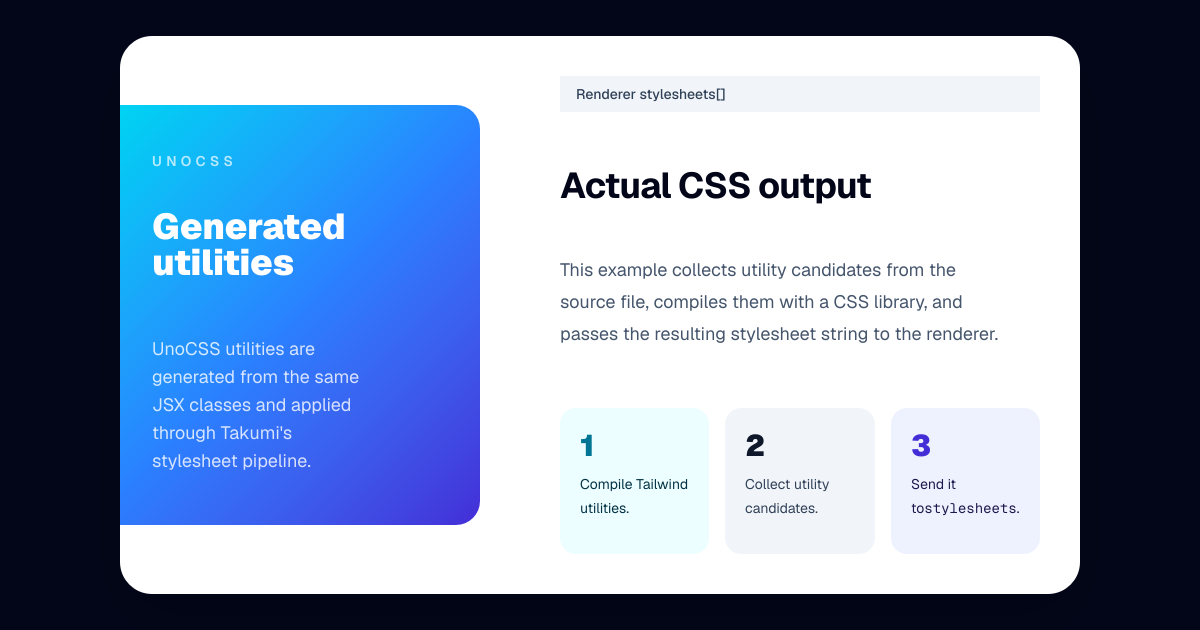
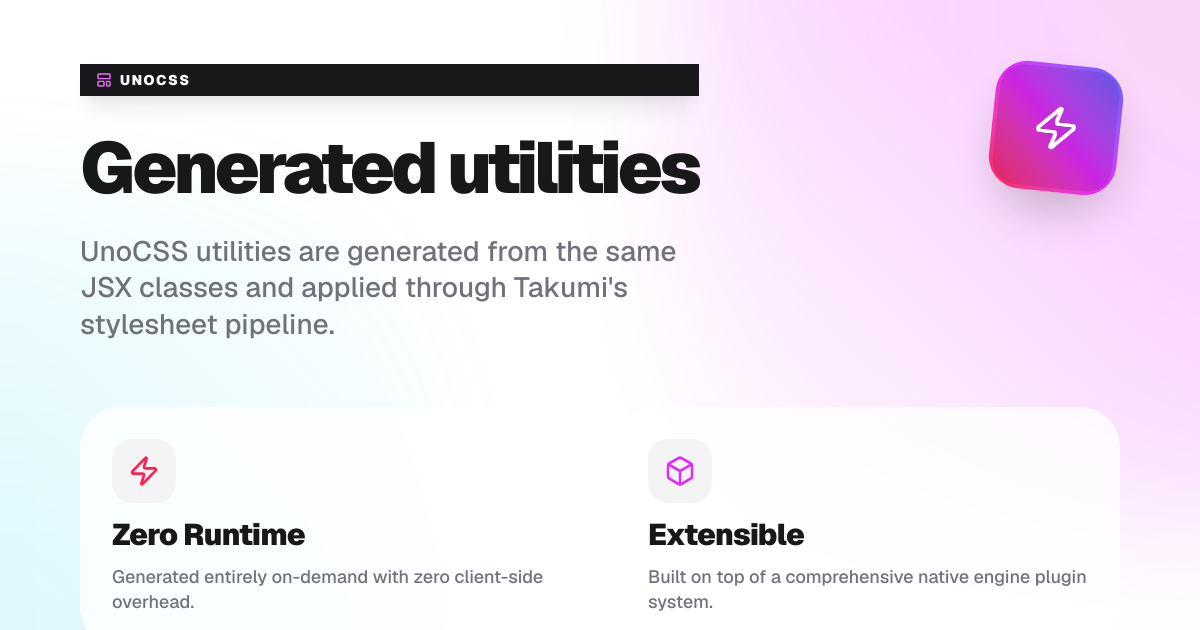
Example: update card component

diff --git a/example/css-library-integration/src/card.tsx b/example/css-library-integration/src/card.tsx
@@ -1,68 +1,142 @@
-type CssLibraryCardProps = {
+import { Box, Code, Layers, LayoutTemplate, Play, Zap } from "lucide-react";
+
+export type CssLibraryCardProps = {
   libraryName: string;
   title: string;
   description: string;
 };
 
-export function CssLibraryCard({
+export function TailwindCard({
   libraryName,
   title,
   description,
 }: CssLibraryCardProps) {
   return (
-    <div className="flex h-full w-full items-center justify-center bg-slate-950 p-16">
-      <div className="flex w-[960px] items-center gap-10 overflow-hidden rounded-[32px] border border-white/10 bg-white shadow-2xl">
-        <div className="flex h-[420px] w-[360px] flex-col justify-between rounded-r-3xl bg-linear-to-br from-cyan-400 via-blue-500 to-indigo-700 p-8 text-white">
-          <div className="flex flex-col space-y-4">
-            <p className="text-sm font-semibold uppercase tracking-[0.3em] text-white/70">
+    <div className="h-[630px] w-[1200px] bg-[#09090b] font-sans flex-row overflow-hidden border border-[#27272a]">
+      {/* Left Pane - Content & Typo */}
+      <div className="w-[640px] h-full flex-col p-20 justify-between bg-linear-to-b from-[#09090b] to-[#18181b] relative z-10">
+        <div className="flex-col">
+          <div className="items-center px-4 py-2 w-max shrink-0 rounded-full bg-blue-500/10 border border-blue-500/20">
+            <Layers className="w-4 h-4 shrink-0 text-blue-400 mr-2" />
+            <span className="text-sm font-bold text-blue-400 tracking-widest uppercase">
               {libraryName}
-            </p>
-            <h1 className="max-w-[240px] text-4xl font-black leading-none">
-              {title}
-            </h1>
+            </span>
           </div>
 
-          <p className="max-w-56 text-lg text-white/80">{description}</p>
+          <h1 className="m-0 mt-12 text-[64px] font-black text-white tracking-tighter leading-[1.05]">
+            {title}
+          </h1>
+          <p className="m-0 mt-8 text-2xl text-[#a1a1aa] font-medium leading-relaxed">
+            {description}
+          </p>
         </div>
 
-        <div className="flex min-w-0 flex-1 flex-col gap-6 p-10">
-          <div className="inline-flex w-fit items-center rounded-full bg-slate-100 px-4 py-2 text-sm font-medium text-slate-700">
-            Renderer stylesheets[]
-          </div>
+        <div className="items-center bg-blue-600 w-max shrink-0 px-8 py-5 rounded-2xl shadow-[0_0_40px_-10px_rgba(37,99,235,0.5)]">
+          <span className="text-xl font-bold text-white tracking-wide">
+            INITIALIZE PIPELINE
+          </span>
+          <Play className="w-5 h-5 shrink-0 text-white ml-3 fill-white" />
+        </div>
+      </div>
 
-          <div className="flex flex-col space-y-4 text-slate-950">
-            <h2 className="text-4xl font-bold tracking-tight">
-              Actual CSS output
-            </h2>
-            <p className="max-w-md text-lg leading-8 text-slate-600 whitespace-pre-wrap">
-              This example collects utility candidates from the source file,
-              compiles them with a CSS library, and passes the resulting
-              stylesheet string to the renderer.
-            </p>
-          </div>
-
-          <div className="grid grid-cols-3 gap-4 pt-4">
-            <div className="flex flex-col rounded-2xl bg-cyan-50 p-5">
-              <div className="text-3xl font-black text-cyan-700">1</div>
-              <p className="mt-2 text-sm leading-6 text-cyan-950">
-                Compile Tailwind utilities.
-              </p>
+      {/* Right Pane - Feature Grid */}
+      <div className="flex-1 h-full bg-[#18181b] flex-col p-16 justify-center border-l border-[#27272a] shadow-[-20px_0_60px_-15px_rgba(0,0,0,0.5)]">
+        <div className="flex-col gap-8">
+          <div className="bg-[#09090b] p-8 rounded-3xl border border-[#27272a] items-start hover:border-blue-500/50 transition-colors">
+            <div className="h-16 w-16 shrink-0 items-center justify-center rounded-2xl bg-[#18181b] border border-[#27272a] text-blue-500">
+              <Code className="w-8 h-8 shrink-0" />
             </div>
-
-            <div className="flex flex-col rounded-2xl bg-slate-100 p-5">
-              <div className="text-3xl font-black text-slate-900">2</div>
-              <p className="mt-2 text-sm leading-6 text-slate-700">
-                Collect utility candidates.
-              </p>
-            </div>
-
-            <div className="flex flex-col rounded-2xl bg-indigo-50 p-5">
-              <div className="text-3xl font-black text-indigo-700">3</div>
-              <p className="mt-2 text-sm leading-6 text-indigo-950">
-                Send it to <code>stylesheets</code>.
+            <div className="flex-col ml-8 justify-center">
+              <h3 className="m-0 text-2xl font-black text-[#f4f4f5]">
+                Static Resolution
+              </h3>
+              <p className="m-0 mt-2 text-lg text-[#71717a] font-medium leading-normal">
+                Optimized AST-based scanning of JSX source files for utility
+                tokens.
               </p>
             </div>
           </div>
+
+          <div className="bg-[#09090b] p-8 rounded-3xl border border-[#27272a] items-start hover:border-blue-500/50 transition-colors">
+            <div className="h-16 w-16 shrink-0 items-center justify-center rounded-2xl bg-[#18181b] border border-[#27272a] text-blue-500">
+              <Zap className="w-8 h-8 shrink-0" />
+            </div>
+            <div className="flex-col ml-8 justify-center">
+              <h3 className="m-0 text-2xl font-black text-[#f4f4f5]">
+                Engine Build
+              </h3>
+              <p className="m-0 mt-2 text-lg text-[#71717a] font-medium leading-normal">
+                Tailwind v4 JIT compilation into highly optimized raw CSS
+                stylesheets.
+              </p>
+            </div>
+          </div>
+        </div>
+      </div>
+    </div>
+  );
+}
+
+export function UnoCard({
+  libraryName,
+  title,
+  description,
+}: CssLibraryCardProps) {
+  return (
+    <div className="h-[630px] w-[1200px] bg-white font-sans flex-col overflow-hidden relative border border-zinc-200">
+      {/* Massive Background Gradients */}
+      <div className="absolute top-0 right-0 w-[800px] h-[800px] bg-linear-to-bl from-rose-500/20 via-fuchsia-500/20 to-transparent blur-3xl rounded-full translate-x-1/3 -translate-y-1/3" />
+      <div className="absolute bottom-0 left-0 w-[600px] h-[600px] bg-linear-to-tr from-cyan-400/20 to-transparent blur-3xl rounded-full -translate-x-1/4 translate-y-1/4" />
+
+      {/* Top Section */}
+      <div className="w-full flex-row px-20 py-16 justify-between items-start relative z-10 shrink-0">
+        <div className="flex-col max-w-[640px]">
+          <div className="items-center px-4 py-1.5 w-max shrink-0 rounded-full bg-zinc-900 shadow-xl border border-zinc-800">
+            <LayoutTemplate className="w-4 h-4 shrink-0 text-fuchsia-400 mr-2" />
+            <span className="text-sm font-black text-white tracking-widest uppercase">
+              {libraryName}
+            </span>
+          </div>
+
+          <h1 className="m-0 mt-10 text-[72px] font-black text-zinc-900 tracking-tighter leading-[0.9]">
+            {title}
+          </h1>
+          <p className="m-0 mt-8 text-[28px] text-zinc-500 font-medium leading-[1.3] max-w-[600px]">
+            {description}
+          </p>
+        </div>
+
+        <div className="w-32 h-32 shrink-0 bg-linear-to-tr from-rose-500 via-fuchsia-500 to-indigo-500 rounded-[32px] shadow-2xl rotate-6 flex-col items-center justify-center p-1 border-4 border-white">
+          <div className="w-full h-full shrink-0 bg-black/10 rounded-[24px] justify-center items-center">
+            <Zap className="w-12 h-12 shrink-0 text-white fill-white" />
+          </div>
+        </div>
+      </div>
+
+      {/* Bottom Section - Metric Cards */}
+      <div className="w-full flex-row gap-8 px-20 pb-16 mt-auto relative z-10 flex-1 items-end">
+        <div className="flex-1 bg-white/80 p-8 rounded-[40px] border border-white shadow-[0_30px_60px_-15px_rgba(0,0,0,0.05)] flex-col justify-end h-[240px]">
+          <div className="h-16 w-16 shrink-0 bg-zinc-100 rounded-[20px] items-center justify-center mb-auto border border-zinc-200">
+            <Zap className="w-8 h-8 shrink-0 text-rose-500" />
+          </div>
+          <h3 className="m-0 text-3xl font-black text-zinc-900 tracking-tight">
+            Zero Runtime
+          </h3>
+          <p className="m-0 mt-3 text-lg text-zinc-500 font-medium leading-snug">
+            Generated entirely on-demand with zero client-side overhead.
+          </p>
+        </div>
+
+        <div className="flex-1 bg-white/80 p-8 rounded-[40px] border border-white shadow-[0_30px_60px_-15px_rgba(0,0,0,0.05)] flex-col justify-end h-[240px]">
+          <div className="h-16 w-16 shrink-0 bg-zinc-100 rounded-[20px] items-center justify-center mb-auto border border-zinc-200">
+            <Box className="w-8 h-8 shrink-0 text-fuchsia-500" />
+          </div>
+          <h3 className="m-0 text-3xl font-black text-zinc-900 tracking-tight">
+            Extensible
+          </h3>
+          <p className="m-0 mt-3 text-lg text-zinc-500 font-medium leading-snug">
+            Built on top of a comprehensive native engine plugin system.
+          </p>
         </div>
       </div>
     </div>

diff --git a/example/css-library-integration/src/index.tsx b/example/css-library-integration/src/index.tsx
@@ -4,7 +4,7 @@ import { fileURLToPath } from "node:url";
 import { Renderer } from "@takumi-rs/core";
 import { fromJsx } from "@takumi-rs/helpers/jsx";
 import { write } from "bun";
-import { CssLibraryCard } from "./card";
+import { TailwindCard, UnoCard } from "./card";
 import { compileTailwindStylesheet } from "./tailwind-compile";
 import { compileUnoStylesheet } from "./unocss-compile";
 
@@ -13,8 +13,8 @@ const height = 630;
 
 const currentFile = fileURLToPath(import.meta.url);
 const currentDir = dirname(currentFile);
-const exampleDir = dirname(currentDir);
-const outputDir = join(exampleDir, "output");
+const exampleDir = dirname(currentFile);
+const outputDir = join(exampleDir, "..", "output");
 const renderer = new Renderer();
 
 await mkdir(outputDir, { recursive: true });
@@ -43,8 +43,11 @@ const stylesheets = [
 for (const stylesheet of stylesheets) {
   await write(join(outputDir, stylesheet.outputName), stylesheet.css);
 
+  const CardComponent =
+    stylesheet.libraryName === "Tailwind CSS" ? TailwindCard : UnoCard;
+
   const { node } = await fromJsx(
-    <CssLibraryCard
+    <CardComponent
       description={stylesheet.description}
       libraryName={stylesheet.libraryName}
       title={stylesheet.title}

diff --git a/example/css-library-integration/README.md b/example/css-library-integration/README.md
@@ -2,6 +2,9 @@
 
 This example compiles Tailwind CSS and UnoCSS in-process and passes the resulting CSS into Takumi's `stylesheets` render option.
 
+![Tailwind CSS output](./output/tailwind-stylesheets.png)
+![UnoCSS output](./output/unocss-stylesheets.png)
+
 ## Run
 
 Before running the example, build the native package once from the workspace root.
@@ -14,7 +17,7 @@ Then render the example image.
 
 ```bash
 cd example/css-library-integration
-bun run render
+bun render
 ```
 
 This writes:
